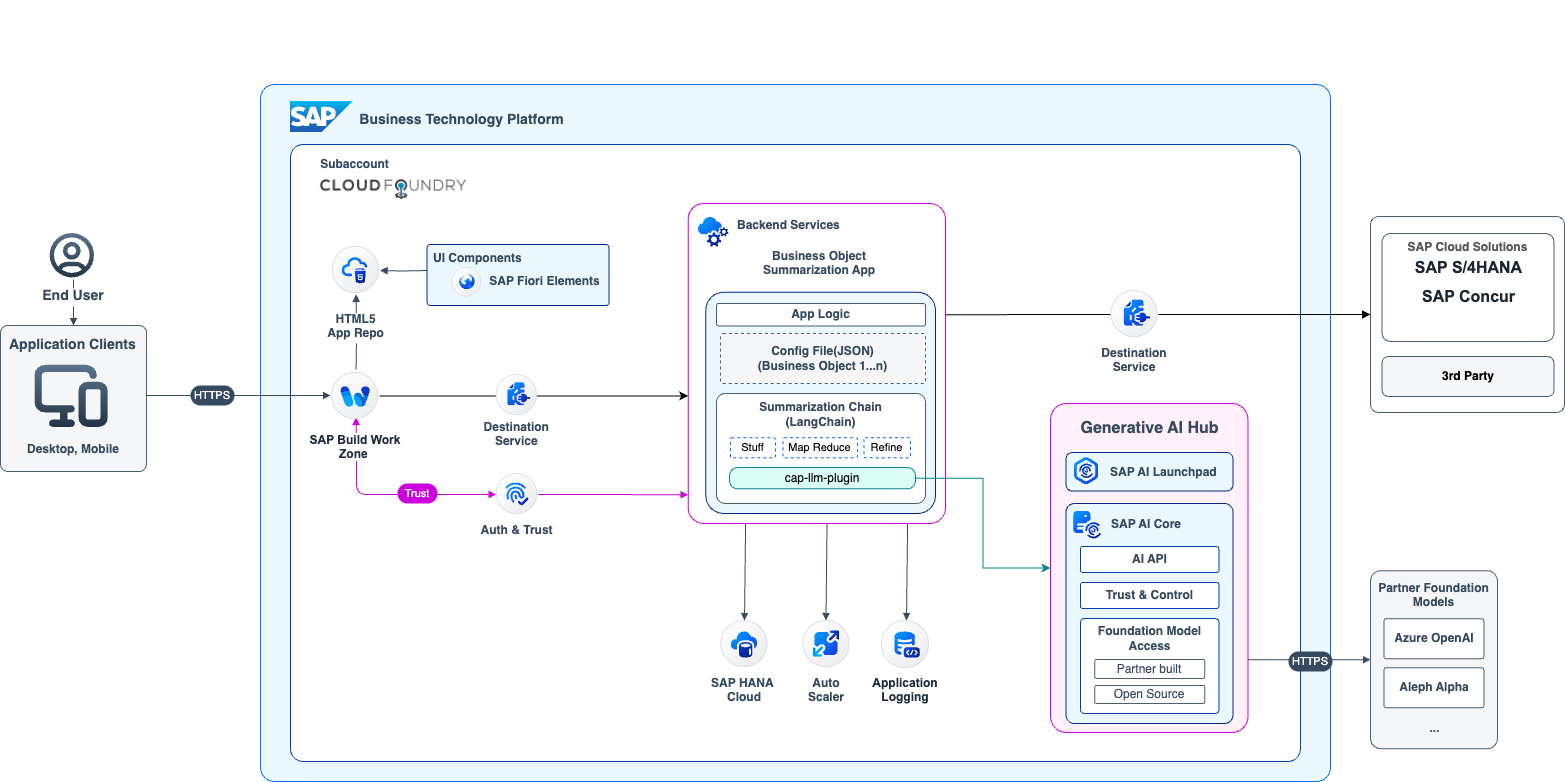
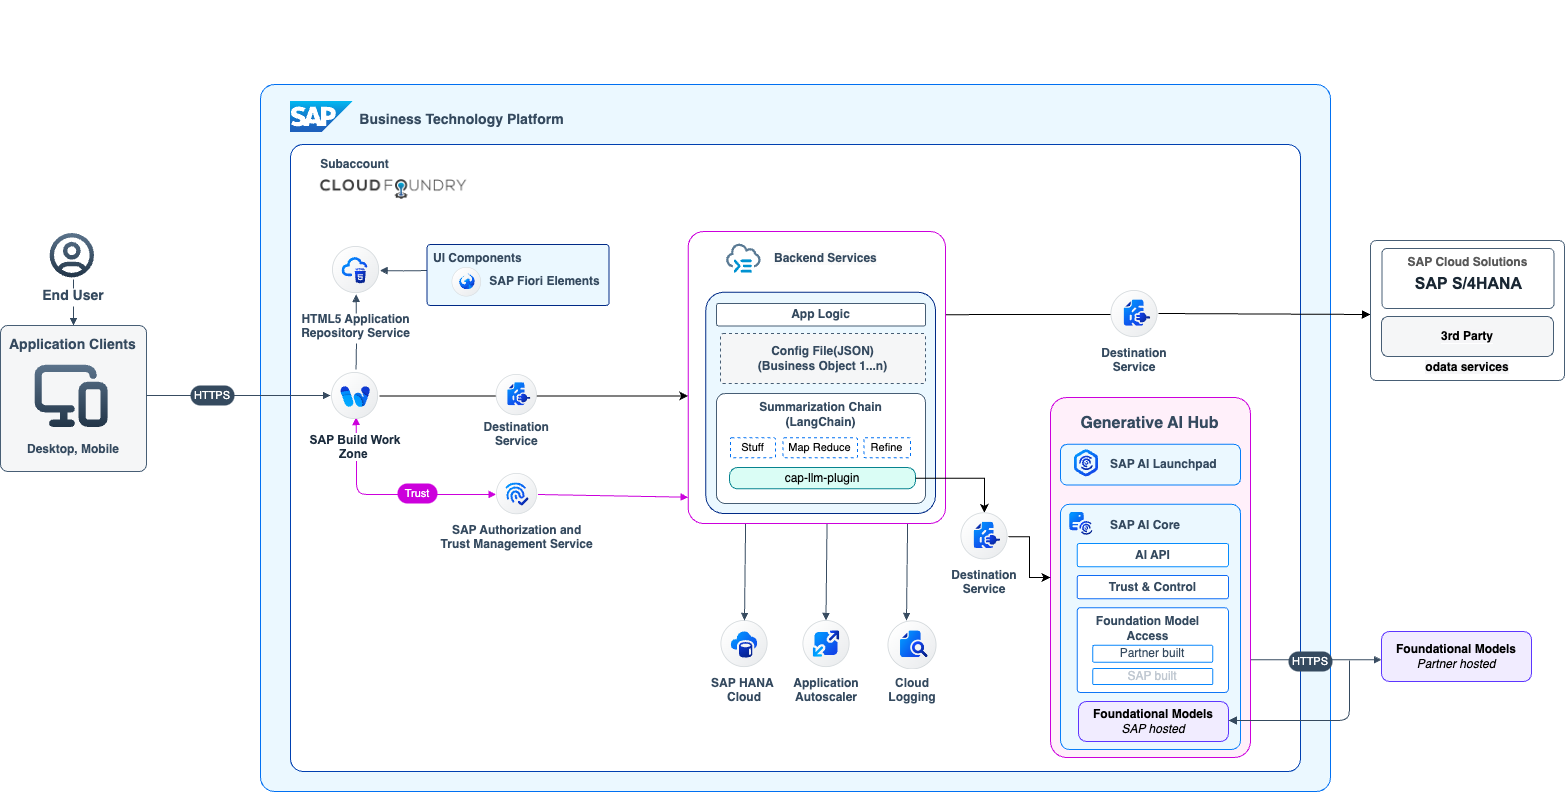
Updated drawio & readme

diff --git a/README.md b/README.md
@@ -1,8 +1,8 @@
 
 # Leveraging Dynamic Application Generation and GenAI for Real-Time Business Insights
-In the SAP ecosystem, most of us have interacted with Business Objects in one way or another. They are integral to any application created for clients or internal use, providing access to essential business data. However, the conventional process of connecting Business Objects to our applications, especially when performing specific actions on the data, can be tedious and time-consuming. 
+In the SAP ecosystem, most of us have interacted with business objects (like purchase order, maintenance order etc.) in one way or another. They are integral to any application created for clients or internal use, providing access to essential business data. However, the conventional process of connecting business objects to our applications, especially when performing specific actions on the data, can be tedious and time-consuming. 
 
-This repository explores an innovative approach to integrating Business Objects harnessing the GenAI capabilities into your applications in just a few simple steps, significantly reducing the effort and time involved while driving business insights.
+This repository explores an innovative architectural approach to dynamically generate application for real time business insights of business objects harnessing the GenAI capabilities like summarization in just a few simple steps, significantly reducing the effort and time.
 
 > **Important Note** : Please be aware that this GitHub repository is still work in progress for improvements and additional scenarios. Make sure you're pulling the repository from time to time and redeploying it in SAP BTP.
 
